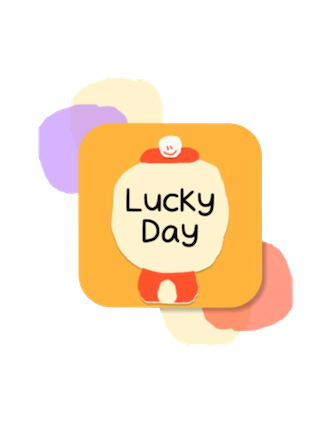
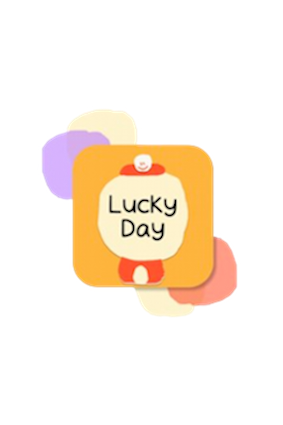
style: carousel UI 수정 (#13)

Changed region(s): [[0.1131, 0.1835, 0.9046, 0.8259]]

diff --git a/src/components/common/carousel/Carousel.styled.ts b/src/components/common/carousel/Carousel.styled.ts
@@ -5,6 +5,7 @@ export const CarouselContainer = styled.div`
   position: relative;
   overflow: hidden;
   width: 100%;
+  height: 870px;
 `;
 
 export const Slide = styled.div`
@@ -21,7 +22,7 @@ export const TextBox = styled.div`
     color: ${theme.colors.black};
     ${theme.fonts.logo};
     text-align: center;
-    margin-bottom: 30px;
+    margin: 20px 0px 20px 0px;
     white-space: pre-wrap;
   `}
 `;

diff --git a/src/pages/Landing/Landing.styled.ts b/src/pages/Landing/Landing.styled.ts
@@ -15,14 +15,3 @@ export const ContentsBox = styled.div`
   justify-content: center;
   align-items: center;
 `;
-
-export const ImageBox = styled.div`
-  width: 300px;
-  height: 500px;
-  display: flex;
-  align-items: center;
-  justify-content: center;
-  margin-bottom: 120px;
-  font-size: 25px;
-  background-color: lightgray;
-`;
